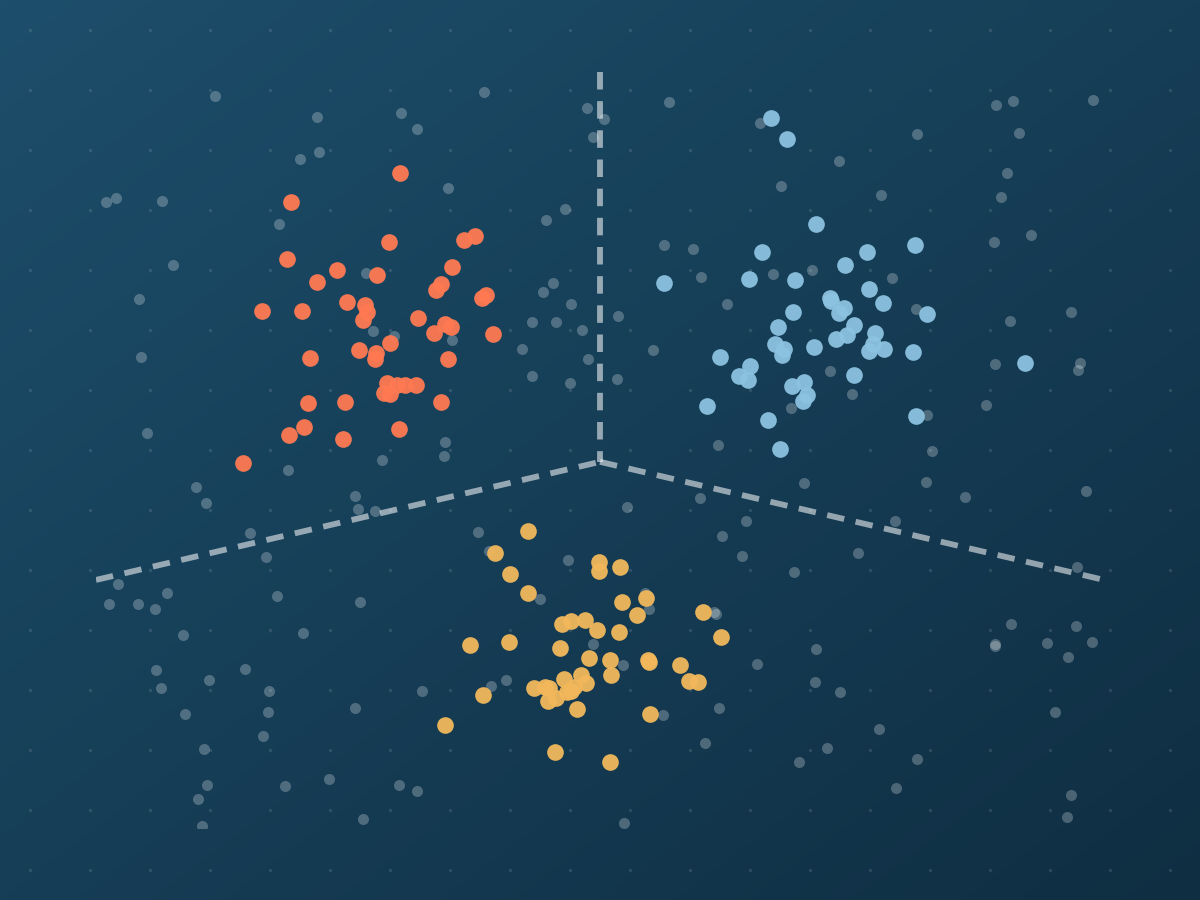
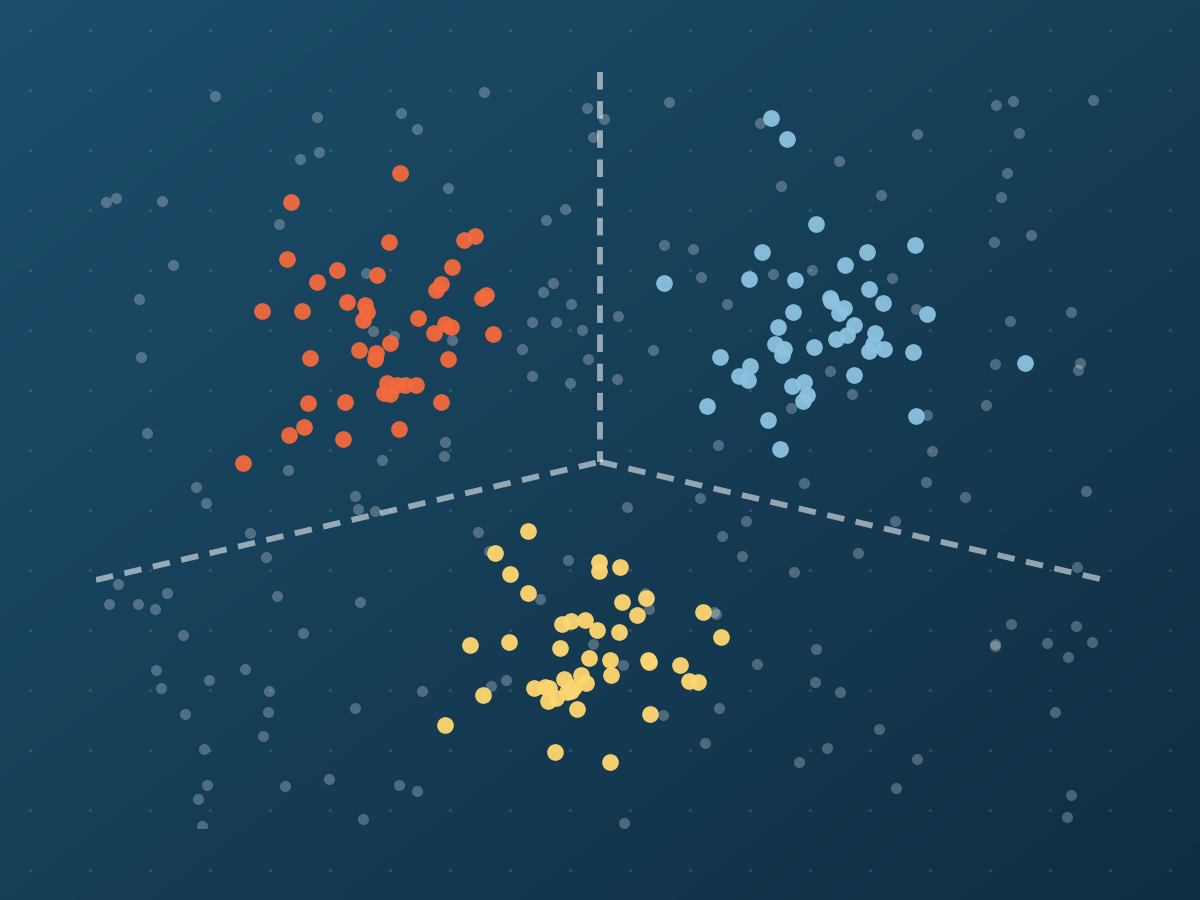
Colour-blind-safer plot palette; colour notes in CLAUDE.md
- New plot colours, checked with scripts/palette_check.py:
  vermilion #cf3e24 / #f26a3d, blue #1a5188 / #6cb6f0,
  amber #efb93a / #ffd770 (light / dark). Vermilion and amber are now
  32 apart for deuteranopes instead of 16, and the three colours differ
  in lightness (L* 48, 34, 78), so they also separate in greyscale.
- Amber marks get a darker edge (--st-c3-edge, #a87412) on light pages,
  where amber alone is too pale.
- site.css, the figure scripts and SVGs updated; all PNG figures and
  covers regenerated.
- CLAUDE.md: colour rules from four sources, the palette and its roles,
  measurements and the checks to run before publishing a figure.
- scripts/palette_check.py: lightness, contrast and simulated colour
  blindness for any palette.

diff --git a/docs/assets/stylesheets/site.css b/docs/assets/stylesheets/site.css
@@ -15,9 +15,12 @@
   --st-highlight: #c2410c;
   /* Plot categories: same meaning in every figure. Distinct in lightness as
      well as hue, so they stay apart for colour-blind readers. */
-  --st-c1: #e4572e;
-  --st-c2: #2878b5;
-  --st-c3: #e9a23b;
+  --st-c1: #cf3e24;
+  --st-c2: #1a5188;
+  --st-c3: #efb93a;
+  /* Amber is too light for thin lines on a light page (1.8:1), so amber
+     marks get this darker edge (4.1:1). See CLAUDE.md. */
+  --st-c3-edge: #a87412;
   --st-mono: var(--md-code-font-family, "IBM Plex Mono", ui-monospace, monospace);
 }
 
@@ -31,9 +34,10 @@
   --st-accent: #8cc3e0;
   --st-accent-dark: #8cc3e0;
   --st-highlight: #fb923c;
-  --st-c1: #ff7a52;
-  --st-c2: #5aa9e6;
-  --st-c3: #f2b85b;
+  --st-c1: #f26a3d;
+  --st-c2: #6cb6f0;
+  --st-c3: #ffd770;
+  --st-c3-edge: #ffd770;
 }
 
 /* Map the tokens onto Material's own variables. */

diff --git a/scripts/palette_check.py b/scripts/palette_check.py
@@ -1,0 +1,104 @@
+"""
+scripts/palette_check.py
+
+Motivation
+----------
+The figures on this site share one palette (see CLAUDE.md). The goal is to
+check, with numbers instead of by eye, that its colours stay apart for
+colour-blind readers and in greyscale, and that thin lines and small markers
+stand out from the page. It is pursued by converting each colour to CIELAB,
+simulating the three kinds of dichromacy, and measuring distances and
+contrast.
+
+What it measures
+----------------
+For the light and the dark theme separately:
+* L*: CIELAB lightness, 0 to 100, which is what remains in greyscale.
+* Contrast ratio against the page background (WCAG 2). Lines and markers
+  need at least 3:1, text at least 4.5:1.
+* Delta E (CIE 1976) between every pair of plot colours, for normal vision
+  and for simulated protanopia, deuteranopia and tritanopia (Machado,
+  Oliveira and Fernandes 2009, severity 1). Below about 20, small marks are
+  hard to tell apart; above about 40 they are clearly different.
+
+Usage
+-----
+    python scripts/palette_check.py
+    python scripts/palette_check.py --light "#d8452a,#1f5f99,#f2c14e"
+"""
+
+import argparse
+import itertools
+
+import numpy as np
+
+# Plot colours in the order c1 (vermilion), c2 (blue), c3 (amber), as in
+# docs/assets/stylesheets/site.css, with the background figures sit on.
+THEMES = {
+    "light": {"colours": "#cf3e24,#1a5188,#efb93a", "background": "#ffffff"},
+    "dark": {"colours": "#f26a3d,#6cb6f0,#ffd770", "background": "#10212d"},
+}
+NAMES = ("vermilion", "blue", "amber")
+SIMULATIONS = {
+    "normal": np.eye(3),
+    "protan": np.array(
+        [[0.152286, 1.052583, -0.204868], [0.114503, 0.786281, 0.099216], [-0.003882, -0.048116, 1.051998]]
+    ),
+    "deutan": np.array(
+        [[0.367322, 0.860646, -0.227968], [0.280085, 0.672501, 0.047413], [-0.011820, 0.042940, 0.968881]]
+    ),
+    "tritan": np.array(
+        [[1.255528, -0.076749, -0.178779], [-0.078411, 0.930809, 0.147602], [0.004733, 0.691367, 0.303900]]
+    ),
+}
+
+
+def linear_rgb(hex_colour):
+    """sRGB hex string to linear RGB in [0, 1]."""
+    c = np.array([int(hex_colour[i : i + 2], 16) for i in (1, 3, 5)]) / 255
+    return np.where(c <= 0.04045, c / 12.92, ((c + 0.055) / 1.055) ** 2.4)
+
+
+def lab(rgb_linear):
+    """Linear RGB to CIELAB under D65."""
+    m = np.array([[0.4124, 0.3576, 0.1805], [0.2126, 0.7152, 0.0722], [0.0193, 0.1192, 0.9505]])
+    x, y, z = m @ rgb_linear / np.array([0.95047, 1.0, 1.08883])
+
+    def f(t):
+        return np.where(t > 0.008856, np.cbrt(t), 7.787 * t + 16 / 116)
+
+    return np.array([116 * f(y) - 16, 500 * (f(x) - f(y)), 200 * (f(y) - f(z))])
+
+
+def contrast(a, b):
+    """WCAG 2 contrast ratio between two hex colours."""
+    ya, yb = (float(np.dot([0.2126, 0.7152, 0.0722], linear_rgb(c))) for c in (a, b))
+    hi, lo = max(ya, yb), min(ya, yb)
+    return (hi + 0.05) / (lo + 0.05)
+
+
+def check(theme, colours, background):
+    print(f"== {theme} theme, background {background}")
+    for name, c in zip(NAMES, colours):
+        L = lab(linear_rgb(c))[0]
+        print(f"   {name:9s} {c}  L* {L:4.0f}  contrast {contrast(c, background):4.1f}:1")
+    for sim, matrix in SIMULATIONS.items():
+        points = [lab(np.clip(matrix @ linear_rgb(c), 0, 1)) for c in colours]
+        pairs = [
+            f"{NAMES[i][:4]}-{NAMES[j][:4]} {np.linalg.norm(points[i] - points[j]):3.0f}"
+            for i, j in itertools.combinations(range(len(colours)), 2)
+        ]
+        print(f"   {sim:7s} delta E: " + "   ".join(pairs))
+
+
+def main():
+    parser = argparse.ArgumentParser(description=__doc__.split("\n\n")[0])
+    for theme, spec in THEMES.items():
+        parser.add_argument(f"--{theme}", default=spec["colours"], help="three comma-separated hex colours")
+    args = parser.parse_args()
+    for theme, spec in THEMES.items():
+        check(theme, getattr(args, theme).split(","), spec["background"])
+
+
+if __name__ == "__main__":
+    main()

diff --git a/scripts/infomeasure_checks.py b/scripts/infomeasure_checks.py
@@ -39,11 +39,12 @@ import numpy as np
 
 INK = "#13212b"
 MUTED = "#a3b1ba"
-ACCENT = "#e4572e"
+ACCENT = "#cf3e24"
 # Same roles as the site figures: grey for reference, blue for simulated or
 # estimated data, vermilion for theory, amber for a secondary series.
-BLUE = "#2878b5"
-AMBER = "#e9a23b"
+BLUE = "#1a5188"
+AMBER = "#efb93a"
+AMBER_EDGE = "#a87412"  # amber marks need a darker edge on white
 DEFAULT_OUT = (
     Path(__file__).resolve().parents[1]
     / "docs"
@@ -148,7 +149,7 @@ def main():
         ms=5,
         label=r"$TE_{x \to y}$, estimated",
     )
-    a.plot(gammas, te_yx, "s", color=AMBER, ms=4, label=r"$TE_{y \to x}$, reverse")
+    a.plot(gammas, te_yx, "s", color=AMBER, mec=AMBER_EDGE, ms=4.5, label=r"$TE_{y \to x}$, reverse")
     a.plot(
         gammas,
         te_ctrl,

diff --git a/scripts/ml_representations.py b/scripts/ml_representations.py
@@ -42,12 +42,12 @@ from sklearn.tree import DecisionTreeClassifier
 
 INK = "#13212b"
 MUTED = "#a3b1ba"
-ACCENT = "#e4572e"
+ACCENT = "#cf3e24"
 # Same roles as the site figures: blue and vermilion for the two classes,
 # with pale tints of the same colours for the regions a model assigns.
-BLUE = "#2878b5"
-BLUE_TINT = "#dbe8f4"
-ACCENT_TINT = "#fbe0d8"
+BLUE = "#1a5188"
+BLUE_TINT = "#dde5ed"
+ACCENT_TINT = "#f8e2de"
 DEFAULT_OUT = (
     Path(__file__).resolve().parents[1]
     / "docs"

diff --git a/scripts/euler_maruyama_sho.py b/scripts/euler_maruyama_sho.py
@@ -37,11 +37,12 @@ import numpy as np
 
 INK = "#13212b"
 MUTED = "#a3b1ba"
-ACCENT = "#e4572e"
+ACCENT = "#cf3e24"
 # Same roles as the site figures: grey for reference, blue for simulated or
 # estimated data, vermilion for theory, amber for a secondary series.
-BLUE = "#2878b5"
-AMBER = "#e9a23b"
+BLUE = "#1a5188"
+AMBER = "#efb93a"
+AMBER_EDGE = "#a87412"  # amber marks need a darker edge on white
 DEFAULT_OUT = (
     Path(__file__).resolve().parents[1]
     / "docs"

diff --git a/scripts/post_covers.py b/scripts/post_covers.py
@@ -45,9 +45,9 @@ from euler_maruyama_sho import euler_maruyama_sho
 
 PETROL = "#1d4e6b"
 PETROL_DEEP = "#0f2e42"
-LIGHT = "#ff7a52"
+LIGHT = "#f26a3d"
 SKY = "#8cc3e0"
-AMBER = "#f2b85b"
+AMBER = "#ffd770"
 OUT_DIR = Path(__file__).resolve().parents[1] / "docs" / "writing" / "posts" / "img"
 DIGIT = Path(__file__).resolve().parent / "data" / "mnist-test-00030.png"
 SIZE = (4.0, 3.0)  # 4:3, the aspect the Blog list crops to

diff --git a/CLAUDE.md b/CLAUDE.md
@@ -1,0 +1,148 @@
+# Notes for working on this site
+
+How the site is built, previewed and published is in `README.md`. This file
+keeps the decisions that are not obvious from the code, starting with colour.
+
+## Colours in figures
+
+Every figure on the site, whether an SVG in `includes/` or a PNG drawn by a
+script in `scripts/`, uses one palette. Each colour has a fixed role, so a
+reader who learns it once can read every figure.
+
+| Role | CSS token | Light | Dark | Used for |
+|---|---|---|---|---|
+| Context | `--st-muted` (figures: `MUTED`) | `#51606b` (`#a3b1ba` in PNGs) | `#95a7b2` | axes, grids, reference and "before" curves, controls, arrows |
+| Ink | `--st-ink` (`INK`) | `#13212b` | `#e4ecf0` | text, boundaries, the one line that must read as neutral |
+| c1, vermilion | `--st-c1` (`ACCENT`) | `#cf3e24` | `#f26a3d` | the main result, theory, the highlight; Ops side of the DevOps loop; class 1 |
+| c2, blue | `--st-c2` (`BLUE`) | `#1a5188` | `#6cb6f0` | data, simulations, estimates; Dev side of the loop; class 0; services |
+| c3, amber | `--st-c3` (`AMBER`) | `#efb93a` | `#ffd770` | a secondary series, a third category, data stores |
+| c3 edge | `--st-c3-edge` (`AMBER_EDGE`) | `#a87412` | `#ffd770` | the outline of every amber mark, because amber alone is too light on a white page |
+
+Covers for the Blog list are drawn on the petrol banner (`#1d4e6b` to
+`#0f2e42`) by `scripts/post_covers.py`, with `LIGHT` `#f26a3d`, `SKY`
+`#8cc3e0`, `AMBER` `#ffd770` and white. Talk covers in `includes/cover-*.svg`
+sit on a dark background and use the dark-theme values. The sun in
+`cover-venus.svg` stays yellow because it is the sun, not a category.
+
+The three colours differ in lightness as well as in hue: L* 48, 34 and 78 in
+light mode. So they stay apart in greyscale and for colour-blind readers.
+
+SVGs take their colours from the CSS tokens (`style="stroke: var(--st-c1)"`),
+so they follow the light and dark themes. PNGs cannot, so they are drawn for a
+white page.
+
+### Rules
+
+These come from four sources, listed at the end, and they agree with each
+other.
+
+- **Grey first, colour for meaning.** Draw context in grey and give colour
+  only to what the reader should look at. One highlight colour is often
+  enough.
+- **Few colours.** At most about seven categories in one figure, better three
+  or four. With more, group categories or split the figure into panels.
+- **Same meaning, same colour.** A category keeps its colour in every figure.
+  Never reuse a colour for something else.
+- **Explain the colours.** Use a legend, or better, label the lines and areas
+  directly.
+- **Match the palette type to the data.**
+  - Qualitative for unordered categories: distinct hues, similar weight.
+  - Sequential for ordered values: light means low, dark means high.
+  - Diverging for values around a meaningful centre: two clearly different
+    hues, with a light grey, not white, in the middle.
+  - Cyclic for values that wrap around, such as a phase or a time of day.
+- **Lightness carries the information.** The eye picks out patterns by
+  lightness more than by hue. A gradient must change steadily in lightness,
+  so it still reads in greyscale. Never use a single-hue gradient for
+  categories, because it implies an order.
+- **No rainbow maps.** Jet, Turbo and other rainbows create bands that are
+  not in the data, hide detail and fail in greyscale and for colour-blind
+  readers. For continuous data, use perceptually uniform maps:
+  - viridis or cividis
+  - Crameri's scientific colour maps: batlow (sequential), vik (diverging),
+    romaO (cyclic)
+- **Never red against green**, and never two colours of similar lightness
+  side by side.
+- **Contrast scales with size.** Thin lines, small markers and text need high
+  contrast with the background: at least 3:1 for marks and 4.5:1 for text.
+  Large areas can use muted, desaturated colours. Avoid bright, saturated
+  backgrounds.
+- **Use colours people already understand.** Warm for excitation or heat,
+  cool for inhibition or cold, blue for water, yellow for the sun. Avoid
+  pink and blue for gender.
+- **Do not rely on colour alone.** Where two series must be told apart, also
+  vary the marker shape or the dash, or label them directly.
+
+### Checks before a figure is published
+
+1. Run `python scripts/palette_check.py` for the site palette, or pass new
+   colours with `--light` and `--dark`. It prints for each colour:
+   - lightness L*, which is what survives in greyscale
+   - contrast with the page background
+   - the colour distance between every pair, for normal vision and simulated
+     protanopia, deuteranopia and tritanopia
+
+   A distance below about 20 means small marks in those two colours look the
+   same.
+2. Look at the figure in greyscale. Anything that disappears there must also
+   be encoded some other way.
+3. For anything unusual, view it in a colour-blindness simulator, such as
+   the Chromatic Vision Simulator.
+
+### Measurements of the current palette (23 Nov 2026)
+
+The first palette (`#e4572e`, `#2878b5`, `#e9a23b`) failed some of these
+checks. Vermilion and amber were only 16 apart for deuteranopes (11 in dark
+mode), and vermilion and blue had almost the same lightness (L* 56 against
+49). The palette was changed to the values above. `scripts/palette_check.py`
+now reports:
+
+| Check | Light | Dark |
+|---|---|---|
+| L* of vermilion, blue, amber | 48, 34, 78 | 61, 72, 87 |
+| Contrast with the page | 4.8, 8.2, 1.8 (edge 4.1) | 5.4, 7.5, 11.9 |
+| Smallest distance, normal vision | vermilion–amber 60 | vermilion–amber 55 |
+| Smallest distance, deuteranopia | vermilion–amber 32 | vermilion–amber 24 |
+| Smallest distance, protanopia | vermilion–amber 49 | vermilion–amber 35 |
+| Smallest distance, tritanopia | vermilion–amber 56 | vermilion–amber 59 |
+
+What still needs care:
+
+- **Vermilion against amber is still the closest pair** for colour-blind
+  readers, at 24 in dark mode. Where those two must be told apart, also vary
+  the marker or the dash, or label them directly.
+- **Amber on white is 1.8:1.** In light mode, every amber mark is filled
+  with `--st-c3` and outlined with `--st-c3-edge` (`AMBER_EDGE` in the
+  scripts). Never draw a thin amber line alone on a white page.
+- **Changing a colour means changing it everywhere at once:** the tokens in
+  `site.css`, the constants at the top of every script in `scripts/`, the
+  defaults in `palette_check.py`, this file, and every regenerated figure.
+
+### Tools
+
+- **ColorBrewer:** tested sequential, diverging and qualitative palettes,
+  with a colour-blind-safe filter.
+- **Colorgorical:** generates qualitative palettes with a chosen perceptual
+  distance.
+- **Paletton:** colour harmony.
+- **ColorMoves:** tunes a colour map interactively on your own data.
+- **Crameri's scientific colour maps** and matplotlib's viridis and cividis,
+  for continuous data.
+- **Chromatic Vision Simulator:** previews an image as colour-blind readers
+  see it.
+- **The W3Schools colour picker:** gives the HEX, RGB and HSL values of a
+  colour, its lighter and darker shades, and whether black or white text
+  reads better on it.
+
+### Sources
+
+- Lisa Charlotte Muth, Datawrapper blog, 2018, on choosing colours for data
+  visualisation: <https://www.datawrapper.de/blog/colors>
+- J. Somborski, C. Dias Santos Jr. and L. P. Coelho, "True Colors: palettes
+  are also important for scientists", Big Data Biology Lab blog, 30 Nov 2022:
+  <https://www.big-data-biology.org/blog/2022/11/30/true_colors/>
+- S. Zeller and D. Rogers, "Visualizing science: how color determines what we
+  see", Eos, 21 May 2020:
+  <https://eos.org/features/visualizing-science-how-color-determines-what-we-see>
+- W3Schools HTML colour picker:
+  <https://www.w3schools.com/colors/colors_picker.asp>
